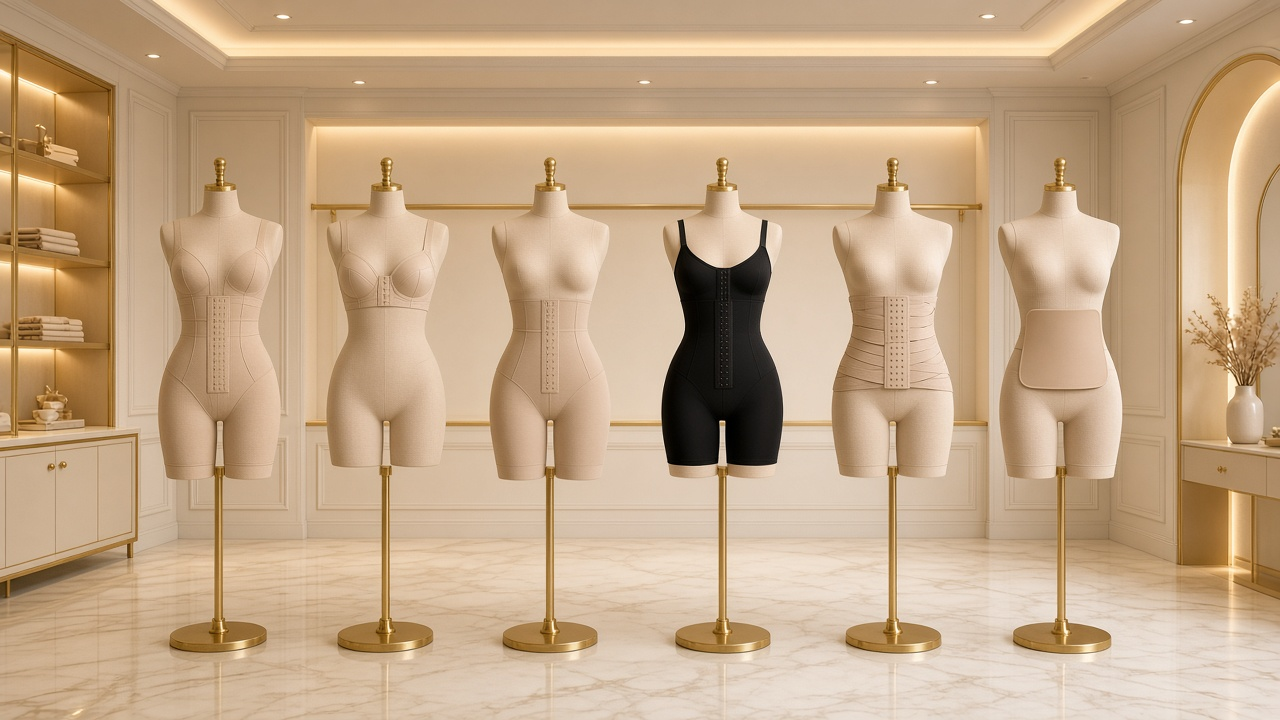
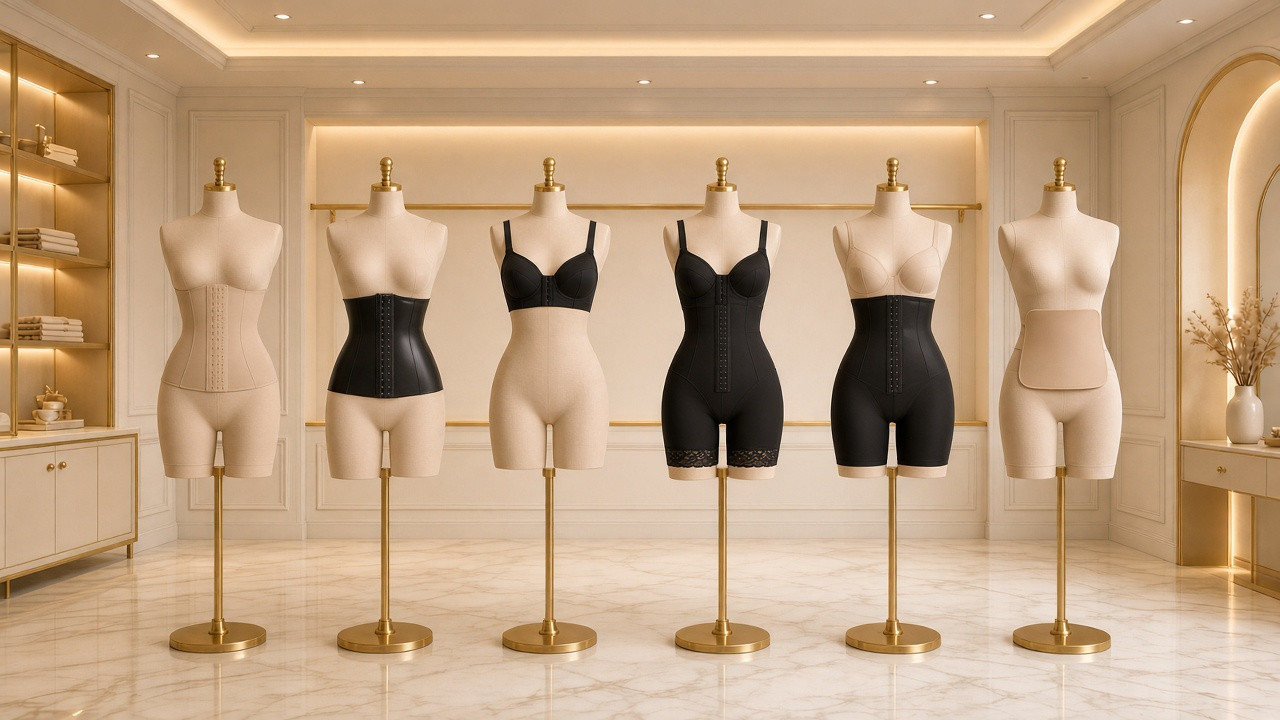
Remate de fajas, videollamada al 50% y ficha de bichectomía
DIH Fajas muestra Tiras, Cacheteros y Chalecos de látex con los precios de apertura y maniquíes sin rostros. En el consultorio, la videollamada desde Home Mall queda al 50% por WhatsApp y se añade una pestaña informativa de bichectomía.

diff --git a/assets/app.js b/assets/app.js
@@ -40,8 +40,17 @@
   };
   const precioHTML = (p, n) => {
     if (!p || p.precio == null && n == null) return "Precio a consultar";
-    const pct = descuentoPctDe(p);
     const venta = precioDe(p, n);
+    if (p && p.remate) {
+      const tieneLista = p.precioVenta != null && p.precio != null && p.precio !== p.precioVenta;
+      const etiqueta = `<span class="remate-badge">${esc(p.remateLabel || "Remate por apertura")}</span>`;
+      if (tieneLista) {
+        const lista = soles(p.precio, mon(p));
+        return `<s class="precio-lista">${lista}</s> <b class="precio-oferta">${venta}</b> ${etiqueta}`;
+      }
+      return `<b class="precio-oferta">${venta}</b> ${etiqueta}`;
+    }
+    const pct = descuentoPctDe(p);
     if (!pct) return venta;
     const lista = soles(precioListaNum(p, n), mon(p));
     return `<s class="precio-lista">${lista}</s> <b class="precio-oferta">${venta}</b> <span class="dto-badge">-${pct}%</span>`;
@@ -833,7 +842,10 @@
         const ps = productosDeSala();
         const tnow = tiendaPorId[e.t];
         if (tnow && tnow.id === "matteo") fx = 0.5;
-        else if (ps.length) fx = ps.reduce((a, p) => a + p.x, 0) / ps.length / 100;
+        else if (tnow && tnow.id === "fajas") {
+          const rem = ps.filter((p) => p.remate && p.x != null);
+          fx = rem.length ? rem.reduce((a, p) => a + p.x, 0) / rem.length / 100 : 0.38;
+        } else if (ps.length) fx = ps.reduce((a, p) => a + p.x, 0) / ps.length / 100;
         if (tnow && tnow.evento && stage.clientWidth < 720) {
           const roma = ps.find((p) => p.standRoma);
           const pc = tnow.evento.pantallaCentral;
@@ -1650,6 +1662,9 @@
         const corto = t.id === "matteo" ? (s.id === "tecnologia" ? "Tecnología" : s.id === "hogar" ? "Hogar" : s.nombre) : s.nombre;
         pill(`${salasNav.length > 1 ? `<small>${i + 1}</small>` : ""}${esc(corto)}`, i === escena.s, () => ir({ tipo: "tienda", t: t.id, s: i }, i < escena.s ? "back" : "fwd"));
       });
+      if (t.id === "consultorio") {
+        pill("Bichectomía", false, () => abrirBichectomiaInfo());
+      }
     }
     const act = nav.querySelector(".active"); if (act && act.scrollIntoView) act.scrollIntoView({ block: "nearest", inline: "center" });
     // info
@@ -1727,7 +1742,7 @@
       box.querySelectorAll("[data-sede]").forEach((b) => { b.onclick = () => abrirSede(b.dataset.sede); });
     }
     else if (t.buscador) { cta.textContent = t.buscadorTitulo ? "🔎 " + t.buscadorTitulo : "🔎 Buscar examen"; cta.onclick = () => abrirBuscador(t); cta.className = "cta"; }
-    else if (t.soloCita) { cta.textContent = "✦ Agenda tu videoconsulta"; cta.onclick = () => abrirAgenda(); cta.className = "cta lux"; }
+    else if (t.soloCita) { const hm = (typeof VIDEOCONSULTA_HOME_MALL !== "undefined" && VIDEOCONSULTA_HOME_MALL.activo !== false); cta.textContent = hm ? "✦ Videollamada · 50% dscto." : "✦ Agenda tu videoconsulta"; cta.onclick = () => abrirAgenda(); cta.className = "cta lux"; }
     else { cta.textContent = "💬 Escribir a la tienda"; cta.onclick = () => window.open(wa(numero(t), `Hola ${nombreTienda(t)}, vengo de ${NOMBRE_CENTRO}. Tengo una consulta.`), "_blank", "noopener"); cta.className = "cta"; }
     const hint = $("#hint");
     if (!t) hint.textContent = "👆 Desliza o arrastra para recorrer el pasillo · toca una tienda para entrar";
@@ -1859,7 +1874,7 @@
     notaC.textContent = sinCompra ? "Esta tienda está en construcción. Pronto podrás armar tu pedido aquí." : "";
     $("#qRow").hidden = !!t.soloCita || p.accion === "turismo" || sinCompra;
     talla = null;
-    const tallas = !t.soloCita && !p.sinTalla && t.tallas ? t.tallas : null;
+    const tallas = !t.soloCita && !p.sinTalla && (p.tallas || t.tallas) ? (p.tallas || t.tallas) : null;
     $("#tRow").hidden = !tallas; $("#tErr").textContent = "";
     $("#pTallas").innerHTML = "";
     (tallas || []).forEach((tl) => { const b = document.createElement("button"); b.type = "button"; b.className = "talla"; b.textContent = tl; b.dataset.talla = tl;
@@ -1900,7 +1915,13 @@
     if (t.soloCita) { (actual.accion || "evaluacion") === "evaluacion" ? abrirCita(actual.nombre) : abrirAgenda(actual.nombre); return; } window.open(wa(numero(t), `Hola ${nombreTienda(t)}, vengo de ${NOMBRE_CENTRO}. Quisiera información sobre: ${actual.nombre}.`), "_blank", "noopener"); };
 
   /* ---------- Capas ---------- */
+  function abrirBichectomiaInfo() {
+    const waBtn = $("#bicheWa");
+    if (waBtn) waBtn.onclick = () => window.open(wa("51915124360", "Hola Dra. Roma Coletti, vengo de Home Mall y quiero agendar una evaluación de bichectomía."), "_blank", "noopener");
+    abrir("#bicheInfo");
+  }
   function abrir(sel) { cerrarTodo(); $(sel).classList.add("open"); $("#scrim").classList.add("on"); }
+
   function cerrarTodo() { pararVideos(); document.body.classList.remove("fest-insc-open"); document.querySelectorAll(".layer.open").forEach((l) => l.classList.remove("open")); $("#scrim").classList.remove("on"); }
   document.querySelectorAll("[data-close]").forEach((b) => (b.onclick = cerrarTodo));
 
@@ -2058,18 +2079,52 @@
   let agTipo = TIPOS_VIDEOCONSULTA[0].id, agRegion = "peru";
   const tipoSel = () => TIPOS_VIDEOCONSULTA.find((t) => t.id === agTipo) || TIPOS_VIDEOCONSULTA[0];
   const precioSel = () => { const t = tipoSel(); return t.precios[agRegion] || t.precios.peru; };
+  const hmVideo = () => (typeof VIDEOCONSULTA_HOME_MALL !== "undefined" && VIDEOCONSULTA_HOME_MALL.activo !== false) ? VIDEOCONSULTA_HOME_MALL : null;
+  const precioConHm = (pr) => {
+    if (!pr) return pr;
+    const hm = hmVideo();
+    if (!hm) return { ...pr, lista: pr.monto, dscto: false };
+    const lista = pr.monto;
+    const monto = Math.round(lista * (1 - (hm.descuentoPct || 50) / 100) * 100) / 100;
+    return { ...pr, lista, monto, dscto: true };
+  };
+  const htmlPrecioHm = (pr) => {
+    const p = precioConHm(pr);
+    const ahora = CitasComun.monto(p.moneda, p.monto);
+    if (!p.dscto) return ahora;
+    return `<s class="precio-lista">${CitasComun.monto(p.moneda, p.lista)}</s> <b class="precio-oferta">${ahora}</b>`;
+  };
   function pintarTipos() {
     const box = $("#aTipos"); box.innerHTML = "";
+    const hm = hmVideo();
+    const offer = $("#agHmOffer");
+    if (offer) {
+      offer.hidden = !hm;
+      if (hm) {
+        offer.querySelector(".aghm-titulo").textContent = hm.titulo || "Videollamada con la Dra. Roma Coletti · 50% dscto. entrando desde Home Mall";
+        offer.querySelector(".aghm-nota").textContent = hm.nota || "50% de descuento entrando desde Home Mall";
+      }
+    }
     tiposAgenda().forEach((t) => {
       const pr = t.precios[agRegion] || t.precios.peru;
       const b = document.createElement("button"); b.type = "button"; b.className = "tipo" + (t.id === agTipo ? " on" : ""); b.dataset.tipo = t.id;
-      b.innerHTML = `<strong>${esc(t.nombre)}</strong><small>${esc(t.desc)}</small><b>${CitasComun.monto(pr.moneda, pr.monto)}</b>`;
+      b.innerHTML = `<strong>${esc(t.nombre)}</strong><small>${esc(t.desc)}</small><b>${htmlPrecioHm(pr)}</b>`;
       b.onclick = () => { agTipo = t.id; pintarTipos(); };
       box.appendChild(b);
     });
     document.querySelectorAll("#aRegion button").forEach((b) => b.classList.toggle("on", b.dataset.region === agRegion));
-    const pr = precioSel();
-    $("#aEnviar").textContent = `Continuar al pago · ${CitasComun.monto(pr.moneda, pr.monto)}`;
+    const pr = precioConHm(precioSel());
+    const btn = $("#aEnviar");
+    const pagoNota = $("#agPagoNota"), waNota = $("#agWaNota");
+    if (pagoNota) pagoNota.hidden = !!hm;
+    if (waNota) waNota.hidden = !hm;
+    if (hm) {
+      btn.textContent = `Agendar por WhatsApp · ${CitasComun.monto(pr.moneda, pr.monto)}`;
+      btn.classList.add("wa");
+    } else {
+      btn.textContent = `Continuar al pago · ${CitasComun.monto(pr.moneda, pr.monto)}`;
+      btn.classList.remove("wa");
+    }
   }
   document.querySelectorAll("#aRegion button").forEach((b) => (b.onclick = () => { agRegion = b.dataset.region; pintarTipos(); }));
   function abrirAgenda(servicio, tipo) {
@@ -2200,7 +2255,22 @@
   $("#spAtras").onclick = () => { $("#spPago").hidden = true; $("#spCheck").hidden = false; };
   $("#spNoWa").onclick = () => window.open(wa(numero(tiendaPorId.consultorio), servPago.noApto.mensaje), "_blank", "noopener");
 
-  $("#aEnviar").onclick = continuarPago;
+    function agendarVideollamadaWhatsApp() {
+    const hm = hmVideo() || { mensaje: "Hola Dra. Roma Coletti, vengo de Home Mall y quiero agendar una videollamada.", whatsapp: "51915124360", descuentoPct: 50 };
+    const nombre = ($("#aNombre") && $("#aNombre").value || "").trim();
+    const tel = ($("#aTel") && $("#aTel").value || "").trim();
+    const serv = ($("#aServicio") && $("#aServicio").value || "").trim();
+    const pr = precioConHm(precioSel());
+    const tipo = (tipoSel() && tipoSel().nombre) || "Videollamada";
+    let msg = hm.mensaje || "Hola Dra. Roma Coletti, vengo de Home Mall y quiero agendar una videollamada con el 50% de descuento.";
+    if (nombre) msg += " Mi nombre es " + nombre + ".";
+    if (tel) msg += " Mi WhatsApp es " + tel + ".";
+    if (serv) msg += " Me interesa: " + serv + ".";
+    if (pr && pr.dscto) msg += " (" + tipo + ", " + CitasComun.monto(pr.moneda, pr.lista) + " → " + CitasComun.monto(pr.moneda, pr.monto) + ").";
+    window.open(wa(hm.whatsapp || "51915124360", msg), "_blank", "noopener");
+  }
+  $("#aEnviar").onclick = () => { if (hmVideo()) agendarVideollamadaWhatsApp(); else continuarPago(); };
+
   $("#pgEnlace").onclick = pagarEnlace;
   $("#pgYaPague").onclick = () => yaPague("Yape");
   $("#pgYaPagueEnlace").onclick = () => yaPague("enlace");

diff --git a/assets/catalogo.js b/assets/catalogo.js
@@ -158,6 +158,17 @@ const TIPOS_VIDEOCONSULTA = [
     } }
 ];
 
+/* 50% de descuento real en la videollamada para quienes entran desde Home Mall.
+   El CTA de reserva es WhatsApp de la clínica (no el enlace de PayPal a precio lleno). */
+const VIDEOCONSULTA_HOME_MALL = {
+  activo: true,
+  descuentoPct: 50,
+  titulo: "Videollamada con la Dra. Roma Coletti · 50% dscto. entrando desde Home Mall",
+  nota: "50% de descuento entrando desde Home Mall",
+  whatsapp: "51915124360",
+  mensaje: "Hola Dra. Roma Coletti, vengo de Home Mall y quiero agendar una videollamada con el 50% de descuento."
+};
+
 /* ---------------------------- TEMPORADA -------------------------------- */
 const CAMPAÑA_ACTIVA = "navidad";   // ← "navidad" | "sanvalentin" | "madre" | "patrias" | "halloween"
 const CAMBIO_AUTOMATICO = false;    // true = elige la campaña según las fechas de cada una (abajo)
@@ -366,6 +377,7 @@ const TIENDAS = [
     id: "consultorio", nombre: "Roma Coletti", letreroCorto: "Roma Coletti", rubro: "Cirugía Plástica · Contorno Corporal", whatsapp: "51915124360",
     plan: "Premium",
     soloCita: true,   // sin carrito ni precios: todo se solicita por WhatsApp
+    banner: "Videollamada · 50% dscto. entrando desde Home Mall",
     lema: "Sé quien quieras ser", registro: "CMP 60940 · RNE 30051", web: "https://draromacoletti.com/",
     tema: { a: "#8c6d2f", b: "#d4af37" },
     salas: [
@@ -379,7 +391,7 @@ const TIENDAS = [
        Sin x/y = no aparece punto en la foto, pero sí en el menú de Servicios y en la barra inferior. */
     remodelacion: { x: 84, y: 46, texto: "En remodelación", sub: "Postoperatorio" },
     productos: [
-      { id: "zona-agenda",   zona: true, accion: "agenda",    nombre: "Agenda tu videoconsulta", sub: "Consulta médica virtual", sala: "consultorio", x: 52, y: 58, visibleEnParcial: true, desc: "" },
+      { id: "zona-agenda",   zona: true, accion: "agenda",    nombre: "Videollamada con la Dra. Roma Coletti", sub: "50% dscto. entrando desde Home Mall", sala: "consultorio", x: 52, y: 58, visibleEnParcial: true, desc: "" },
       { id: "zona-servicios", zona: true, accion: "servicios", nombre: "Servicios",              sub: "Cirugía · Bienestar · Exámenes", sala: "consultorio", x: 18, y: 60, desc: "" },
       { id: "zona-espera",   zona: true, accion: "espera",    nombre: "Sala de espera virtual",  sub: "Con tu enlace de Zoom", sala: "consultorio", x: 72, y: 32, desc: "" },
       { id: "espera-entrar", zona: true, accion: "espera",    nombre: "Ingresar a la sala de espera", sub: "Con tu nombre o código", sala: "espera", x: 46, y: 62, desc: "" },
@@ -427,19 +439,31 @@ const TIENDAS = [
     tallas: ["XS", "S", "M", "L", "XL", "XXL"],   // selector de talla en prendas (no en accesorios con sinTalla)
     fotosVerticales: true,                        // las fotos de producto se muestran completas (maniquí entero)
     aviso: "Precios incluyen IGV",
+    banner: "Remate por apertura",
     salas: [{ id: "tienda", nombre: "Showroom", sub: "Toca un maniquí o un punto dorado para ver la prenda", img: "assets/img/tiendas/fajas-maniquies.jpg" }],
     productos: [
+      /* Remate por apertura (precios indicados por Roma el 19 nov 2026). Sin precio anterior en el catálogo: no se tacha ni se inventa un % de descuento. */
+      { id: "faja-tiras", nombre: "Tiras", precio: 150, remate: true, x: 44, y: 36,
+        img: "assets/img/productos/faja-tiras.jpg",
+        desc: "Brasier de tiras con broche al frente." },
+      { id: "faja-cachetero", nombre: "Cacheteros", precio: 120, remate: true, x: 56, y: 58,
+        img: "assets/img/productos/faja-cachetero.jpg",
+        desc: "Cachetero de talle alto, con encaje en el ruedo." },
+      { id: "faja-chaleco", nombre: "Chalecos de látex", precio: 200, remate: true, tallas: ["S", "M", "L"], x: 16, y: 48,
+        img: "assets/img/productos/faja-chaleco-beige.jpg",
+        fotos: ["assets/img/productos/faja-chaleco-negro.jpg"],
+        desc: "Chaleco bajo busto. Colores: beige y negro. Tallas S, M y L." },
       { id: "faja-tl", nombre: "Tabla lumbar",              precio: 120, sinTalla: true, x: 9,  y: 62, img: "assets/img/productos/faja-tl.jpg", desc: "Tabla de apoyo lumbar." },
       { id: "faja-ta", nombre: "Tabla abdominal",           precio: 120, sinTalla: true, x: 83, y: 48, img: "assets/img/productos/faja-ta.jpg", desc: "Tabla de apoyo abdominal." },
       { id: "faja-lf", nombre: "Lipo foam x3",              precio: 180, sinTalla: true, x: 9,  y: 48, img: "assets/img/productos/faja-lf.jpg", desc: "Set de 3 láminas de foam." },
       { id: "faja-me", nombre: "Mentonera",                 precio: 100, sinTalla: true, x: 91, y: 36, img: "assets/img/productos/faja-me.jpg", desc: "Mentonera de compresión." },
       { id: "faja-fo", nombre: "Formador de ombligo",       precio: 100, sinTalla: true, x: 91, y: 62, img: "assets/img/productos/faja-fo.jpg", desc: "Formador de ombligo." },
-      { id: "faja-ci", nombre: "Cinturilla",                precio: 270, x: 70, y: 48, img: "assets/img/productos/faja-ci.jpg", desc: "Cinturilla de compresión." },
-      { id: "faja-en", nombre: "Faja enterizo",             precio: 350, x: 56, y: 46, img: "assets/img/productos/faja-en.jpg", desc: "Faja enterizo de compresión." },
-      { id: "faja-sh", nombre: "Faja Sheila",               precio: 210, x: 43, y: 50, img: "assets/img/productos/faja-sh.jpg", desc: "Faja Sheila de compresión." },
-      { id: "faja-br", nombre: "Brasier postoperatorio",    precio: 200, x: 30, y: 38, img: "assets/img/productos/faja-br.jpg", desc: "Brasier postoperatorio." },
-      { id: "faja-bs", nombre: "Faja bajo busto sin mangas", precio: 350, x: 17, y: 46, img: "assets/img/productos/faja-bs.jpg", desc: "Faja bajo busto sin mangas." },
-      { id: "faja-bc", nombre: "Faja bajo busto con mangas", precio: 350, x: 63, y: 32, img: "assets/img/productos/faja-bc.jpg", desc: "Faja bajo busto con mangas." }
+      { id: "faja-ci", nombre: "Cinturilla",                precio: 270, x: 72, y: 62, img: "assets/img/productos/faja-ci.jpg", desc: "Cinturilla de compresión." },
+      { id: "faja-en", nombre: "Faja enterizo",             precio: 350, img: "assets/img/productos/faja-en.jpg", desc: "Faja enterizo de compresión." },
+      { id: "faja-sh", nombre: "Faja Sheila",               precio: 210, img: "assets/img/productos/faja-sh.jpg", desc: "Faja Sheila de compresión." },
+      { id: "faja-br", nombre: "Brasier postoperatorio",    precio: 200, img: "assets/img/productos/faja-br.jpg", desc: "Brasier postoperatorio." },
+      { id: "faja-bs", nombre: "Faja bajo busto sin mangas", precio: 350, img: "assets/img/productos/faja-bs.jpg", desc: "Faja bajo busto sin mangas." },
+      { id: "faja-bc", nombre: "Faja bajo busto con mangas", precio: 350, img: "assets/img/productos/faja-bc.jpg", desc: "Faja bajo busto con mangas." }
     ]
   },
   {

diff --git a/index.html b/index.html
@@ -15,8 +15,8 @@
 <link rel="apple-touch-icon" href="assets/img/marca/icono-180.png">
 <link rel="manifest" href="manifest.webmanifest">
 <link rel="preload" as="image" href="assets/img/marca/portada-home-mall.webp" type="image/webp">
-<link rel="stylesheet" href="assets/fuentes.css?v=20261118m">
-<link rel="stylesheet" href="assets/estilos.css?v=20261118m">
+<link rel="stylesheet" href="assets/fuentes.css?v=20261119a">
+<link rel="stylesheet" href="assets/estilos.css?v=20261119a">
 </head>
 <body>
 <header class="top">
@@ -464,6 +464,11 @@
   <button class="x" data-close aria-label="Cerrar">×</button>
   <div class="advhead"><span class="avatar">✦</span><div><strong>Agenda tu videoconsulta</strong><small>Dra. Roma Coletti · Cirugía Plástica</small></div></div>
   <div id="agForm">
+    <div class="aghm" id="agHmOffer">
+      <span class="aghm-icon" aria-hidden="true">✦</span>
+      <p class="aghm-titulo">Videollamada con la Dra. Roma Coletti · 50% dscto. entrando desde Home Mall</p>
+      <p class="aghm-nota">50% de descuento entrando desde Home Mall</p>
+    </div>
     <p class="step">1 · ¿Dónde te encuentras?</p>
     <div class="seg" id="aRegion"><button type="button" data-region="peru" class="on">🇵🇪 En Perú</button><button type="button" data-region="extranjero">🌎 En el extranjero</button></div>
     <p class="step">2 · Tipo de videoconsulta</p>
@@ -476,8 +481,9 @@
       <label>Procedimiento de interés<select id="aServicio"></select></label>
     </div>
     <p class="err" id="agErr"></p>
-    <button class="primary gold" id="aEnviar" type="button">Continuar al pago</button>
-    <p class="fine">Primero se realiza el pago. Luego envías tu comprobante por WhatsApp y <b>coordinamos contigo la fecha y la hora por WhatsApp</b>; por ahí también te enviamos el enlace de Zoom.</p>
+    <button class="primary gold" id="aEnviar" type="button">Agendar por WhatsApp</button>
+    <p class="fine" id="agPagoNota" hidden>Primero se realiza el pago. Luego envías tu comprobante por WhatsApp y <b>coordinamos contigo la fecha y la hora por WhatsApp</b>; por ahí también te enviamos el enlace de Zoom.</p>
+    <p class="fine" id="agWaNota">Escríbenos por WhatsApp al +51 915 124 360. Menciona que vienes de Home Mall para acceder al 50% de descuento. Coordinamos contigo la fecha, la hora y el enlace de Zoom.</p>
   </div>
   <div id="agPago" hidden>
     <p class="step">Pago de tu videoconsulta</p>
@@ -514,6 +520,21 @@
     <p class="fine" id="okDetalle"></p>
     <a class="walink" id="okWa" target="_blank" rel="noopener">¿No se abrió WhatsApp? Toca aquí</a>
     <button class="primary gold" id="okEspera" type="button">Ir a la sala de espera virtual</button>
+  </div>
+</aside>
+
+<!-- Consultorio: Bichectomía (texto informativo; sin fotos de rostros) -->
+<aside class="layer sheet luxl" id="bicheInfo" aria-label="Bichectomía">
+  <button class="x" data-close aria-label="Cerrar">×</button>
+  <div class="biche-card">
+    <span class="biche-icon" aria-hidden="true">✦</span>
+    <h2>Bichectomía</h2>
+    <p class="fine l">Dra. Roma Coletti · Cirugía Plástica</p>
+    <h3>Qué es</h3>
+    <p>La bichectomía es un procedimiento que reduce el volumen de las bolsas de Bichat, la grasa de la parte baja de las mejillas, para estilizar el tercio inferior del rostro. Se indica solo después de una evaluación médica.</p>
+    <h3>Recuperación</h3>
+    <p>Después del procedimiento es habitual que haya inflamación y molestias los primeros días. El reposo, el cuidado de la zona y el seguimiento los indica la doctora según tu caso.</p>
+    <button class="primary gold" id="bicheWa" type="button">Agenda tu evaluación por WhatsApp</button>
   </div>
 </aside>
 
@@ -564,10 +585,10 @@
 </div>
 
 <div class="toast" id="toast" role="status"></div>
-<script src="assets/catalogo-puco.js?v=20261118m"></script>
-<script src="assets/catalogo.js?v=20261118m"></script>
-<script src="assets/citas-comun.js?v=20261118m"></script>
-<script src="assets/app.js?v=20261118m"></script>
-<script src="assets/puco-tienda.js?v=20261118m"></script>
+<script src="assets/catalogo-puco.js?v=20261119a"></script>
+<script src="assets/catalogo.js?v=20261119a"></script>
+<script src="assets/citas-comun.js?v=20261119a"></script>
+<script src="assets/app.js?v=20261119a"></script>
+<script src="assets/puco-tienda.js?v=20261119a"></script>
 </body>
 </html>

diff --git a/assets/estilos.css b/assets/estilos.css
@@ -1857,3 +1857,35 @@ body.fest-insc-open #festInscripcion{z-index:41}
 @media (max-width:720px){
   .kiosko-cutout .premium-seal{font-size:8px;padding:2px 7px}
 }
+
+
+/* ---- Remate por apertura (DIH Fajas) ---- */
+.remate-badge{display:inline-block;margin-left:.35em;padding:.12em .55em;border-radius:999px;background:linear-gradient(180deg,#f7e7a8,#c9a24a);color:#3a2a0c;font-size:.68em;font-weight:800;letter-spacing:.04em;text-transform:uppercase;vertical-align:middle;line-height:1.3;border:1px solid #9c7426}
+.bact .remate-badge,.cinfo .remate-badge{font-size:.75em}
+#pPrice .remate-badge{font-size:.42em;transform:translateY(-.15em)}
+.scene-banner.descuento,.scene-banner{white-space:nowrap}
+@media (max-width:720px){
+  .scene-banner{white-space:normal;line-height:1.25;letter-spacing:.08em}
+}
+
+/* ---- Videollamada 50% Home Mall ---- */
+.aghm{margin:0 0 1rem;padding:14px 16px 12px;border-radius:14px;background:linear-gradient(180deg,#fffdf6,#f3e6c8);border:1px solid #c9a24a;box-shadow:inset 0 0 0 2px #fbf5e6,0 8px 18px rgba(20,14,10,.08);text-align:center}
+.aghm-icon{display:block;font-size:22px;color:#8c6d2f;line-height:1;margin-bottom:4px}
+.aghm-titulo{font-family:"Cormorant Garamond",Georgia,serif;font-size:1.15rem;font-weight:600;color:#3a2a0c;line-height:1.3;margin:0 0 4px}
+.aghm-nota{margin:0;font-size:13px;font-weight:600;color:#8c6d2f;letter-spacing:.02em}
+#agenda .tipo b .precio-lista{margin-right:.35em;font-weight:500;color:#8a7a6c}
+#agenda .tipo b .precio-oferta{font-weight:800;color:#3a2a0c}
+
+/* ---- Ficha Bichectomía (icono abstracto, sin rostros) ---- */
+#bicheInfo .biche-card{padding:8px 2px 16px;text-align:center}
+#bicheInfo .biche-icon{display:inline-flex;width:64px;height:64px;align-items:center;justify-content:center;border-radius:50%;background:linear-gradient(180deg,#fffdf6,#e8d49a);border:1px solid #c9a24a;box-shadow:inset 0 0 0 3px #fbf5e6,0 8px 20px rgba(20,14,10,.12);color:#8c6d2f;font-size:28px;margin-bottom:8px}
+#bicheInfo h2{font-family:"Cormorant Garamond",Georgia,serif;font-weight:600;font-size:2rem;color:#3a2a0c;margin:.2em 0 .15em}
+#bicheInfo h3{font-family:"Cormorant Garamond",Georgia,serif;font-size:1.15rem;color:#8c6d2f;margin:1.1em 0 .35em;letter-spacing:.04em}
+#bicheInfo .biche-card p{text-align:left;margin:0 auto .2em;max-width:38em;line-height:1.45;color:#3a2f28}
+#bicheInfo #bicheWa{margin-top:1.2em}
+
+.pimg{position:relative}
+.pgal{position:absolute;left:0;right:0;bottom:0;z-index:2}
+#panel.vert .pgal{background:rgba(43,33,27,.72);backdrop-filter:blur(6px)}
+#panel.vert .pgal button{background:#f7efe6;border-color:transparent}
+#panel.vert .pgal button.on{border-color:#c9a24a}
